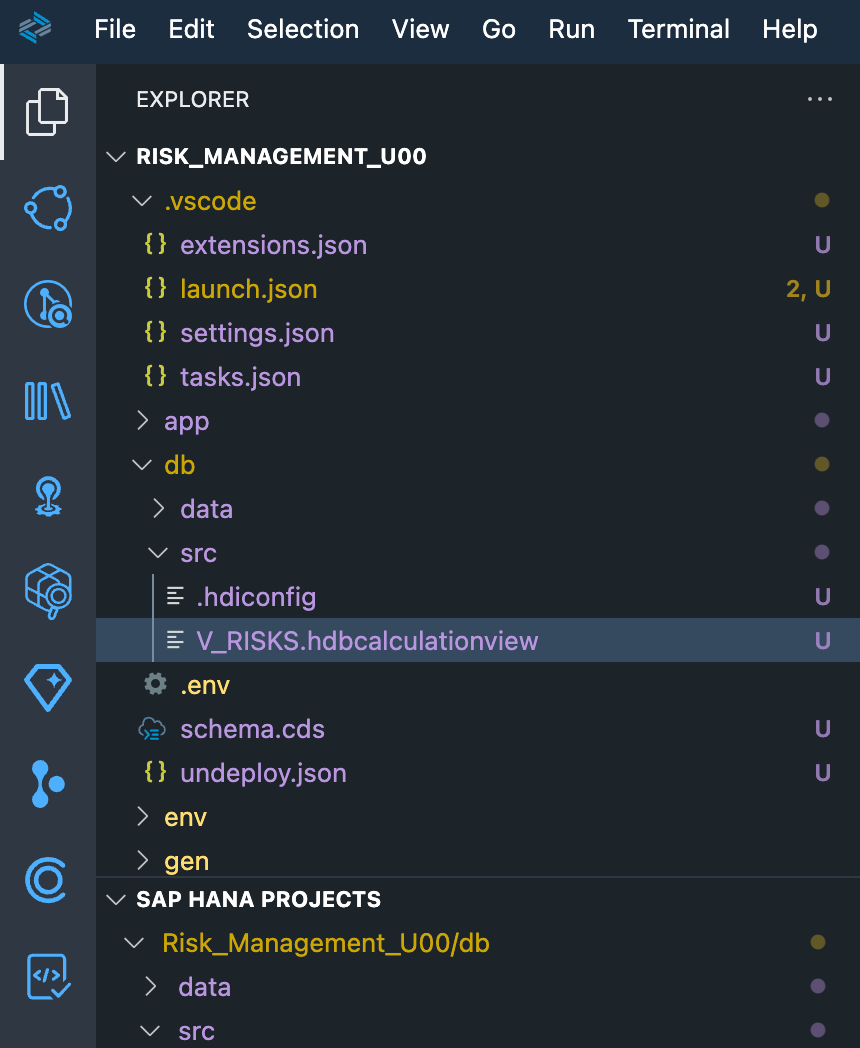
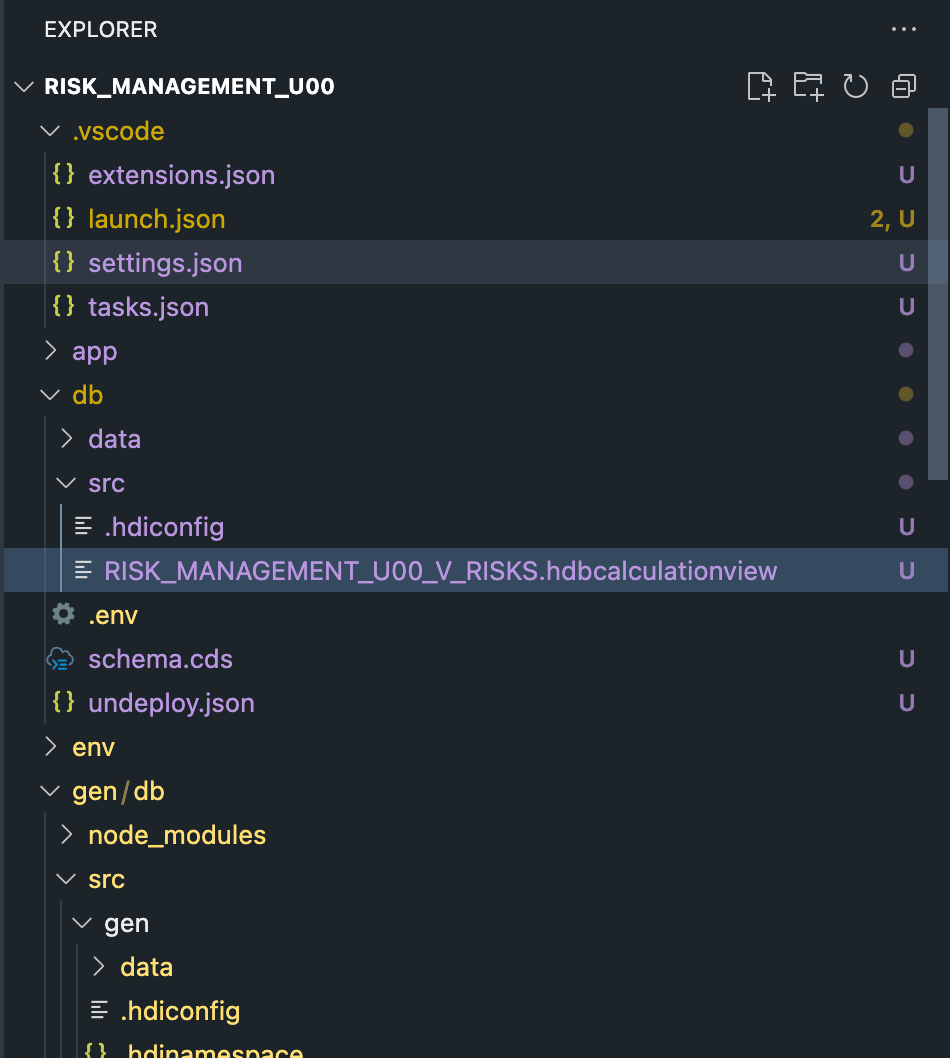
ex 6.1 - minor re do

diff --git a/exercises/ex6/ex6.1/images/README.md b/exercises/ex6/ex6.1/images/README.md
@@ -12,7 +12,8 @@ Add SAP HANA Cloud native artifacts, such as calculation views and stored proced
 
 <br>![](/exercises/ex6/ex6.1/images/2_viewcreate.png) 
 
-2. Create a calculation view called __V_RISKS__ of Data Category DIMENSION and Dimension Type of STANDARD. Press Create.
+2. Create a calculation view called __RISK_MANAGEMENT_U00_V_RISKS__ of Data Category DIMENSION and Dimension Type of STANDARD. Press Create.
+![alt text](image.png)
 
 <br>![](/exercises/ex6/ex6.1/images/3_cvdetails.png) 
 
@@ -21,7 +22,6 @@ Add SAP HANA Cloud native artifacts, such as calculation views and stored proced
 <br>![](/exercises/ex6/ex6.1/images/4_projstr.png) 
 
 4. Click on the __V_RISKS.hdbcalculationview__ to load the graphical calculation view editor.
-
 <br>![](/exercises/ex6/ex6.1/images/5_viewcv.png) 
 
 5. Now lets model the join relationship. Drop a join node into the modeling space.Click on the join and drop it at the end of the projection.
@@ -132,4 +132,6 @@ cds build --production
 <br>![](/exercises/ex6/ex6.1/images/17_deploy.png) 
 
 23. You can test your view via the service layer by adding /odata/v4/catalog/V_RISKS to the path.
+
+<br>![](/exercises/ex6/ex6.1/images/26_viewodata.png) 
 
